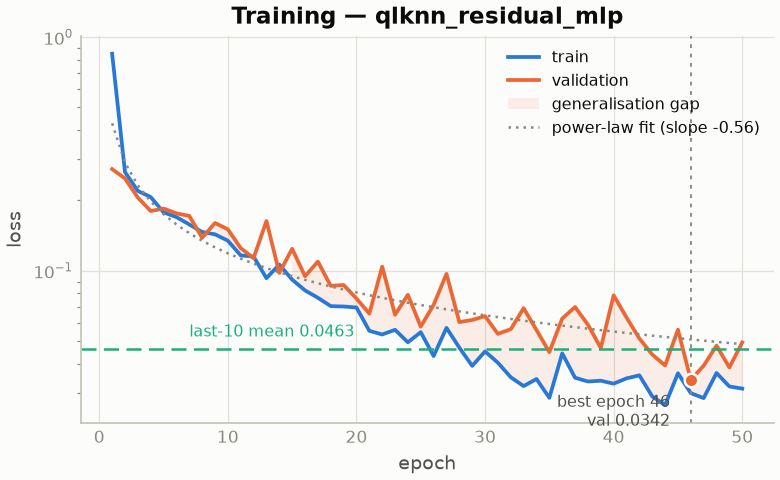
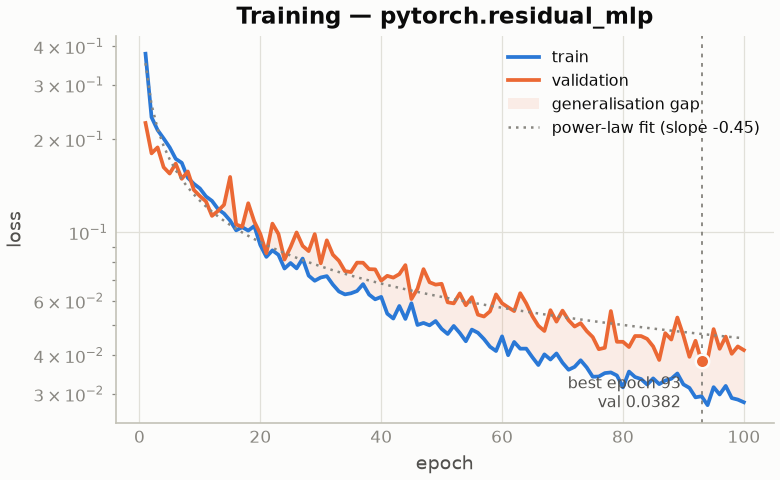
viz(training): show saturation — 100-epoch curve, power-law fit only
Training-curve showcase regenerated from a 100-epoch residual-MLP run
(test R² 0.955) so the convergence plateau is visible; the power-law
fit (slope −0.45) now tracks the full validation trajectory. The
last-10-epoch mean line is removed — with a saturating curve it added
no information.

diff --git a/examples/viz_theme_gallery.py b/examples/viz_theme_gallery.py
@@ -204,15 +204,6 @@ def training_figure(hpo_run: Path, mode: str):
                 ax.plot(epochs[ok], np.exp(a) * epochs[ok]**b,
                         color=p["muted"], lw=1.2, ls=(0, (1, 2)),
                         label=f"power-law fit (slope {b:.2f})")
-            # converged level: mean of the last 10 epochs
-            tail = val[np.isfinite(val)][-10:]
-            if len(tail):
-                lvl = float(tail.mean())
-                ax.axhline(lvl, color=p["series"][2], lw=1.2, ls=(0, (6, 3)))
-                ax.annotate(f"last-10 mean {fmt_metric(lvl, 'loss')}",
-                            (epochs[np.isfinite(val)][max(0, len(epochs)//8)], lvl),
-                            textcoords="offset points", xytext=(0, 6),
-                            fontsize=7.5, color=p["series"][2])
         ax.set_yscale("log")
         ax.set_xlabel("epoch"); ax.set_ylabel("loss")
         ax.set_title(f"Training — {name}")

diff --git a/README.md b/README.md
@@ -93,7 +93,7 @@ sortable tables — generated exclusively from
 | <img src="docs/assets/readme/field2d.png" width="400" alt="2D operator learning: FNO-2D solves the periodic Poisson problem, median rel-L2 0.006"/> | <img src="docs/assets/readme/uncertainty.png" width="400" alt="GP surrogate with 68/95% credible bands"/> |
 | *2D operator learning: FNO-2D learns the periodic Poisson solver source→solution at median rel-L2 **0.006** (32×32 fields; U-Net available for the same task shape).* | *Gaussian-process surrogate with 68/95% credible bands — the band widens where training data is absent (96% truth coverage).* |
 | <img src="docs/assets/readme/ensemble.png" width="400" alt="Deep-ensemble uncertainty: mean ± 2 sigma parity, spread vs error, raw vs calibrated coverage"/> | <img src="docs/assets/gallery/training_curves.png" width="400" alt="Training monitoring: train/val loss, generalisation gap, power-law fit, last-10-epoch mean"/> |
-| *Deep-ensemble UQ (`pytorch.mlp_ensemble`): mean ± 2σ predictions, and honest calibration — raw spread is overconfident; σ-rescaling on a held-out split recovers near-Gaussian coverage.* | *Training monitoring from per-epoch JSONL logs: generalisation gap shaded, best epoch starred, power-law convergence fit, last-10-epoch mean level.* |
+| *Deep-ensemble UQ (`pytorch.mlp_ensemble`): mean ± 2σ predictions, and honest calibration — raw spread is overconfident; σ-rescaling on a held-out split recovers near-Gaussian coverage.* | *Training monitoring from per-epoch JSONL logs (100-epoch run): generalisation gap shaded, best epoch starred, power-law convergence fit tracking the saturation.* |
 
 Regenerate everything above from your own runs — full gallery per
 problem type in [`docs/gallery.md`](docs/gallery.md):

diff --git a/docs/gallery.md b/docs/gallery.md
@@ -29,8 +29,8 @@ gold star at each model's optimum with its score.
 ## Neural-network training
 
 Per-epoch train/validation loss from the JSONL training logs: shaded
-generalisation gap, starred best epoch, power-law convergence fit, and
-the last-10-epoch mean level.
+generalisation gap, starred best epoch, and a power-law convergence
+fit tracking the saturation.
 
 ![Training curves](assets/gallery/training_curves.png)
 
